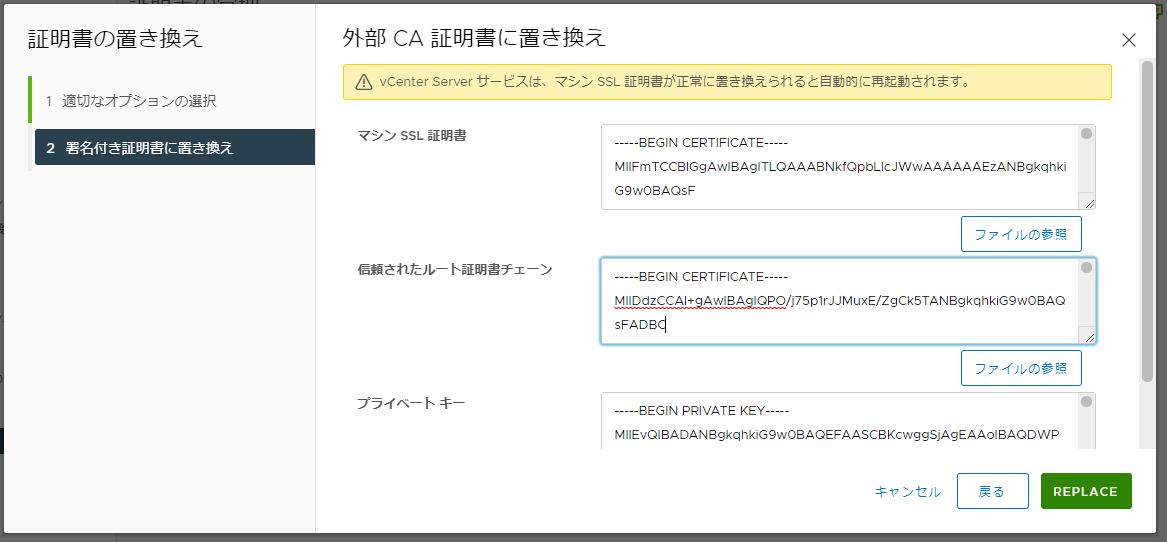
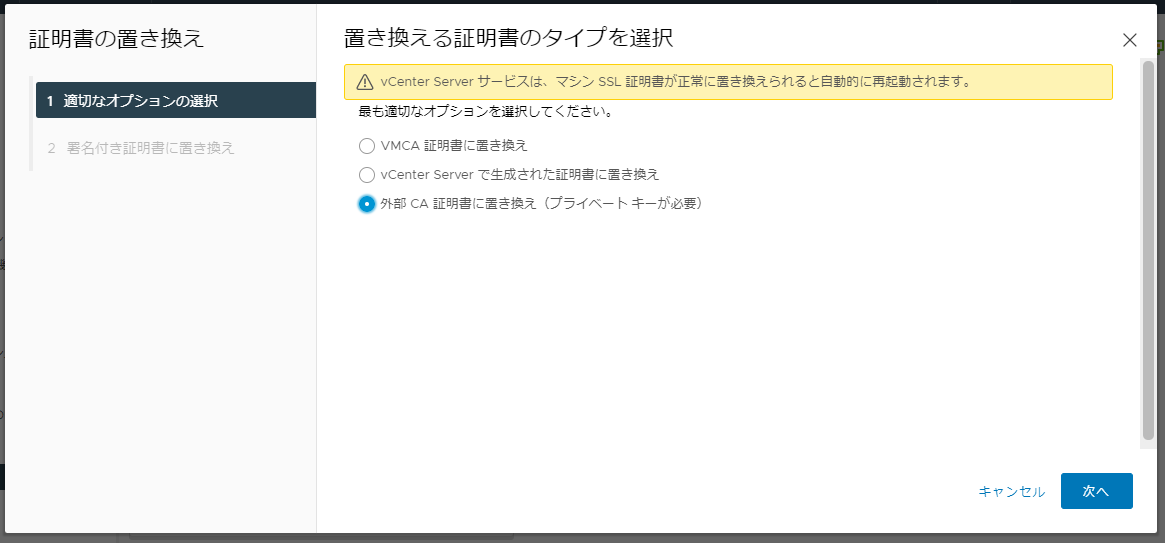
2021-03-24

diff --git a/docs/post/2021-03-24/index.html b/docs/post/2021-03-24/index.html
@@ -174,26 +174,29 @@
 <h2 id="署名済み証明書のインポート">署名済み証明書のインポート</h2>
 <p>vSphere Client の [ホーム] &gt; [管理] &gt; [証明書の管理] を開き、[アクション] から [証明書をインポートして置き換え] をクリックします。</p>
 <p><img src="/images/2021-03-24/replace-certificate-gui-001.PNG" alt=""></p>
-<p>[証明書の置き換え] のダイアログでは、vCenter Server で生成した CSR から証明書を発行した場合は<a href="https://docs.vmware.com/jp/VMware-vSphere/7.0/com.vmware.vsphere.authentication.doc/GUID-15A4FD99-37E2-41E5-8A35-247B8FDB019D.html">マニュアル</a>に沿って [vCenter Server で生成された証明書に置き換え] を選択します。</p>
+<p>[証明書の置き換え] のダイアログでは、vCenter Server で生成した CSR から証明書を発行した場合は<a href="https://docs.vmware.com/jp/VMware-vSphere/7.0/com.vmware.vsphere.authentication.doc/GUID-15A4FD99-37E2-41E5-8A35-247B8FDB019D.html">マニュアル</a>に沿って [vCenter Server で生成された証明書に置き換え]<sup id="fnref:1"><a href="#fn:1" class="footnote-ref" role="doc-noteref">1</a></sup> を選択します。</p>
 <p><img src="/images/2021-03-24/replace-certificate-gui-004.PNG" alt=""></p>
-<p>※vCenter Server で生成したのは CSR なので文言に違和感がありましたが、原文も &ldquo;Replace with certificate generated from vCenter server&rdquo; だったので割り切りました。</p>
 <p>マシン SSL 証明書のファイルを [ファイルの参照] から選択します。CA 証明書チェーンも同様に選択してから [REPLACE] をクリックします。</p>
 <p><img src="/images/2021-03-24/replace-certificate-gui-005.PNG" alt=""></p>
 <p>このタイミングでサービスの再起動が行われますので、サービスの起動まで待ってから再度 [ホーム] &gt; [管理] &gt; [証明書の管理] にアクセスすると、更新されたマシン SSL 証明書とその CA 証明書が確認できます。</p>
 <p><img src="/images/2021-03-24/replace-certificate-gui-006.PNG" alt=""></p>
 <p><img src="/images/2021-03-24/replace-certificate-gui-007.PNG" alt=""></p>
 <h2 id="csr--証明書の秘密鍵について">CSR / 証明書の秘密鍵について</h2>
-<p>一般に CSR を生成するには事前に秘密鍵を用意しておく必要がありますが、vCenter Server で CSR を生成する場合、vCenter Server が秘密鍵を生成して一時的に vCenter Server の証明書ストア (VECS) 内に格納し<sup id="fnref:1"><a href="#fn:1" class="footnote-ref" role="doc-noteref">1</a></sup>、署名済み証明書のインポート時に改めてマシン SSL 証明書と秘密鍵のペアとして VECS 内に保存するようです。</p>
+<p>一般に CSR を生成するには事前に秘密鍵を用意しておく必要がありますが、vCenter Server で CSR を生成する場合、vCenter Server が秘密鍵を生成して一時的に vCenter Server の証明書ストア (VECS) 内に格納し<sup id="fnref:2"><a href="#fn:2" class="footnote-ref" role="doc-noteref">2</a></sup>、署名済み証明書のインポート時に改めてマシン SSL 証明書と秘密鍵のペアとして VECS 内に保存するようです。</p>
 <p>vCenter Server で CSR の生成を行うごとに新しい秘密鍵も生成されるため、署名済み証明書を発行した後に vCenter Server 側で再度 CSR を生成(新しい秘密鍵を生成)してしまうと、署名済み証明書と vCenter Server 上の秘密鍵が対応しなくなりインポートに失敗しますので注意が必要です。</p>
 <h2 id="vcenter-server-外で生成した-csr-を使用する場合">vCenter Server 外で生成した CSR を使用する場合</h2>
 <p>秘密鍵の生成から CA による署名済み証明書の発行まで一般的な証明書の発行手順 (OpenSSL や cfssl を使うなど) で実施した場合には、証明書のインポート時に [vCenter Server で生成された証明書に置き換え] でなく [外部 CA 証明書に置き換え（プライベート キーが必要）] を使用することになります。</p>
 <p>この場合、マシン SSL 証明書と CA 証明書チェーンに加えて、証明書に対応する秘密鍵も必要になるためインポートを実施する前に用意しておきます。</p>
 <p><img src="/images/2021-03-24/replace-certificate-gui-008.PNG" alt=""></p>
+<p><img src="/images/2021-03-24/replace-certificate-gui-009.PNG" alt=""></p>
 <section class="footnotes" role="doc-endnotes">
 <hr>
 <ol>
 <li id="fn:1" role="doc-endnote">
-<p>CSR 生成後に vecs-cli で MACHINE_SSL_CERT ストアを見ると __MACHINE_CSR というエントリが存在していました。証明書のインポートが完了するとエントリは削除されるようです。 <a href="#fnref:1" class="footnote-backref" role="doc-backlink">&#x21a9;&#xfe0e;</a></p>
+<p>vCenter Server で生成したのは CSR なので文言に違和感がありましたが、原文も &ldquo;Replace with certificate generated from vCenter server&rdquo; だったので割り切りました。 <a href="#fnref:1" class="footnote-backref" role="doc-backlink">&#x21a9;&#xfe0e;</a></p>
+</li>
+<li id="fn:2" role="doc-endnote">
+<p>CSR 生成後に vecs-cli で MACHINE_SSL_CERT ストアを見ると __MACHINE_CSR というエントリが存在していました。証明書のインポートが完了するとエントリは削除されるようです。 <a href="#fnref:2" class="footnote-backref" role="doc-backlink">&#x21a9;&#xfe0e;</a></p>
 </li>
 </ol>
 </section>
